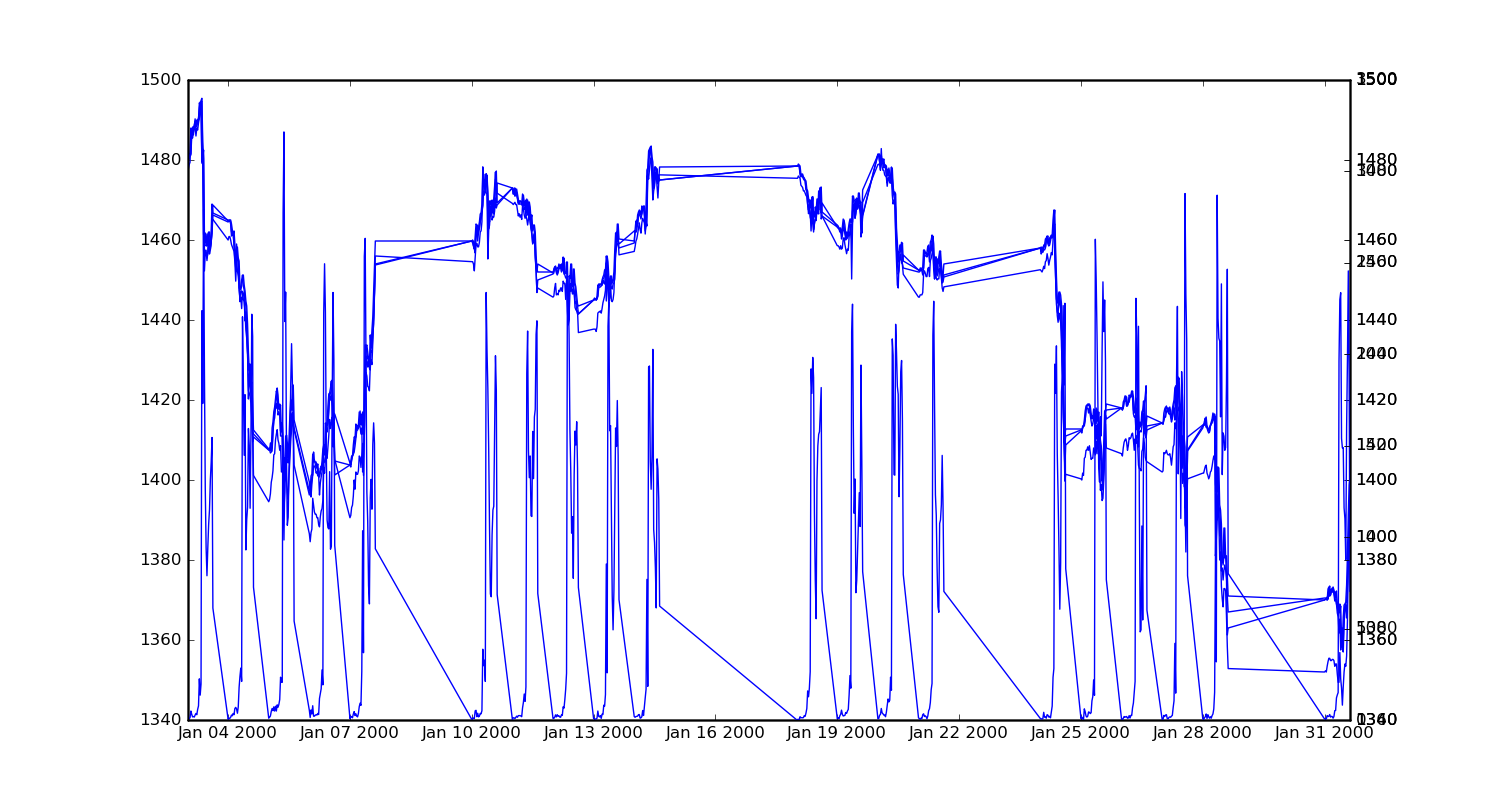
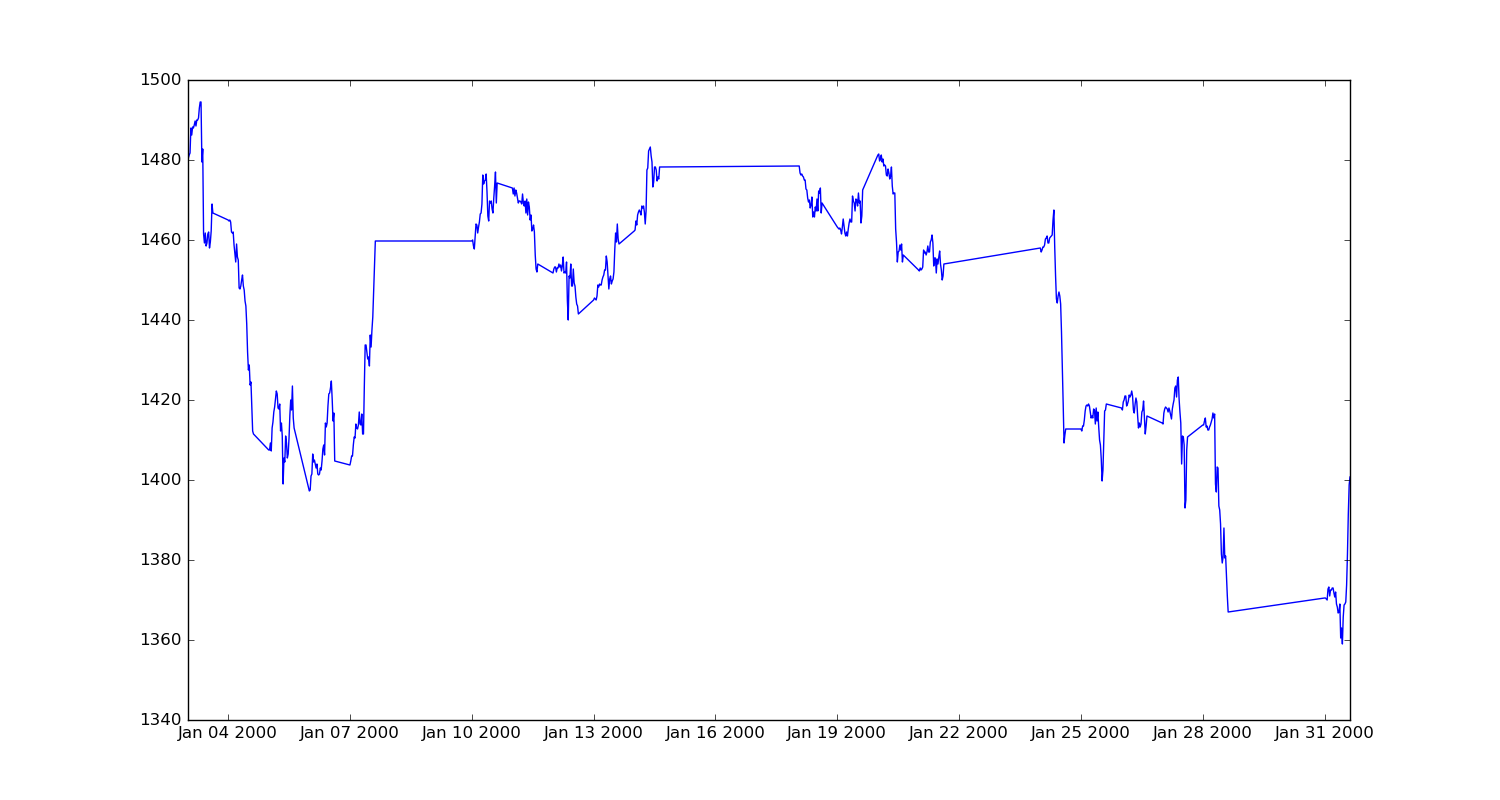
fix

diff --git a/analize/charting_data.py b/analize/charting_data.py
@@ -15,17 +15,17 @@ for i in range(1):  # len(df.columns)):
     fig.set_size_inches((15, 8))
     ax1.plot_date(price["DT"], price["C"], '-', label='C')
 
-    ax2 = ax1.twinx()
-    ax2.plot_date(price["DT"], price["L"], '-', label='L')
+    #ax2 = ax1.twinx()
+    #ax2.plot_date(price["DT"], price["L"], '-', label='L')
 
-    ax3 = ax1.twinx()
-    ax3.plot_date(price["DT"], price["H"], '-', label='H')
+    #ax3 = ax1.twinx()
+    #ax3.plot_date(price["DT"], price["H"], '-', label='H')
 
-    ax4 = ax1.twinx()
-    ax4.plot_date(price["DT"], price["O"], '-', label='O')
+    #ax4 = ax1.twinx()
+    #ax4.plot_date(price["DT"], price["O"], '-', label='O')
 
-    ax5 = ax1.twinx()
-    ax5.plot_date(price["DT"], price["Vol"], '-', label='Vol')
+    #ax5 = ax1.twinx()
+    #ax5.plot_date(price["DT"], price["Vol"], '-', label='Vol')
     
     name = "{}-{}.png".format(price['DT'][0].year, price['DT'][0].month)
     plt.savefig(name)
